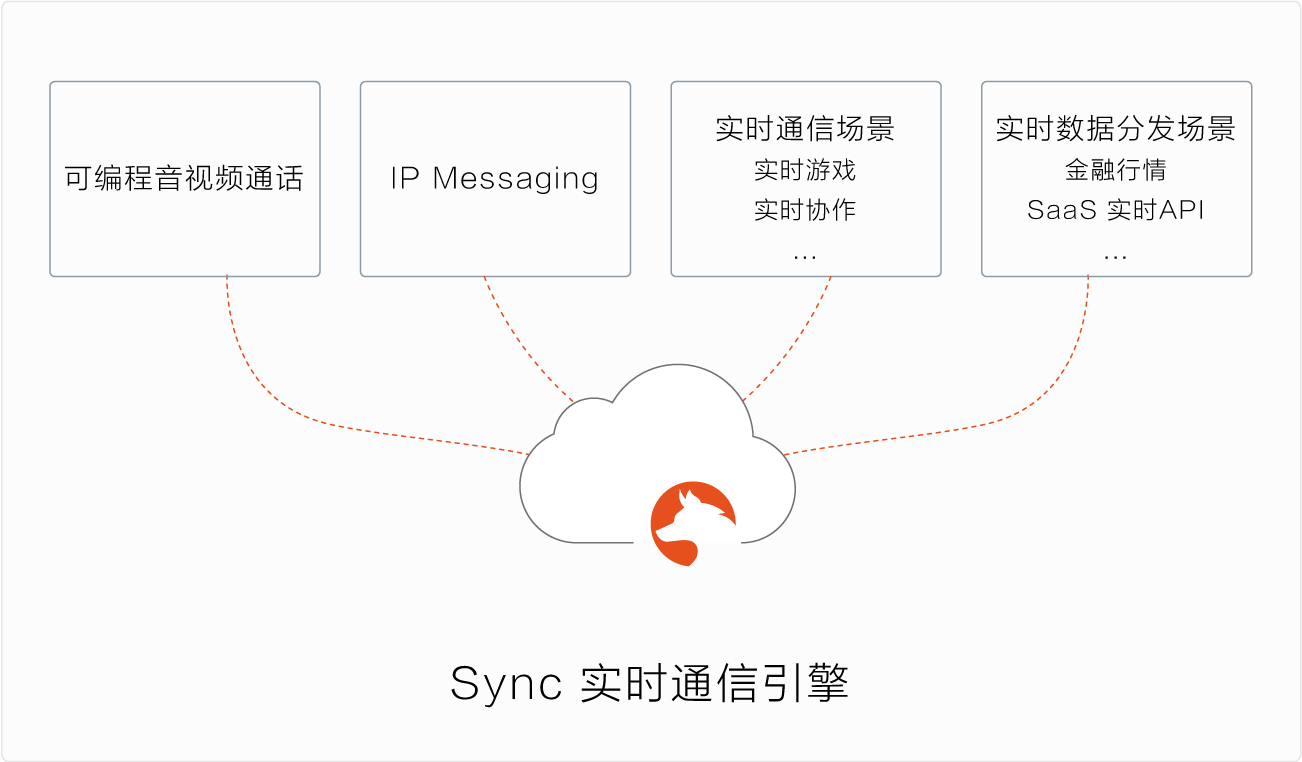
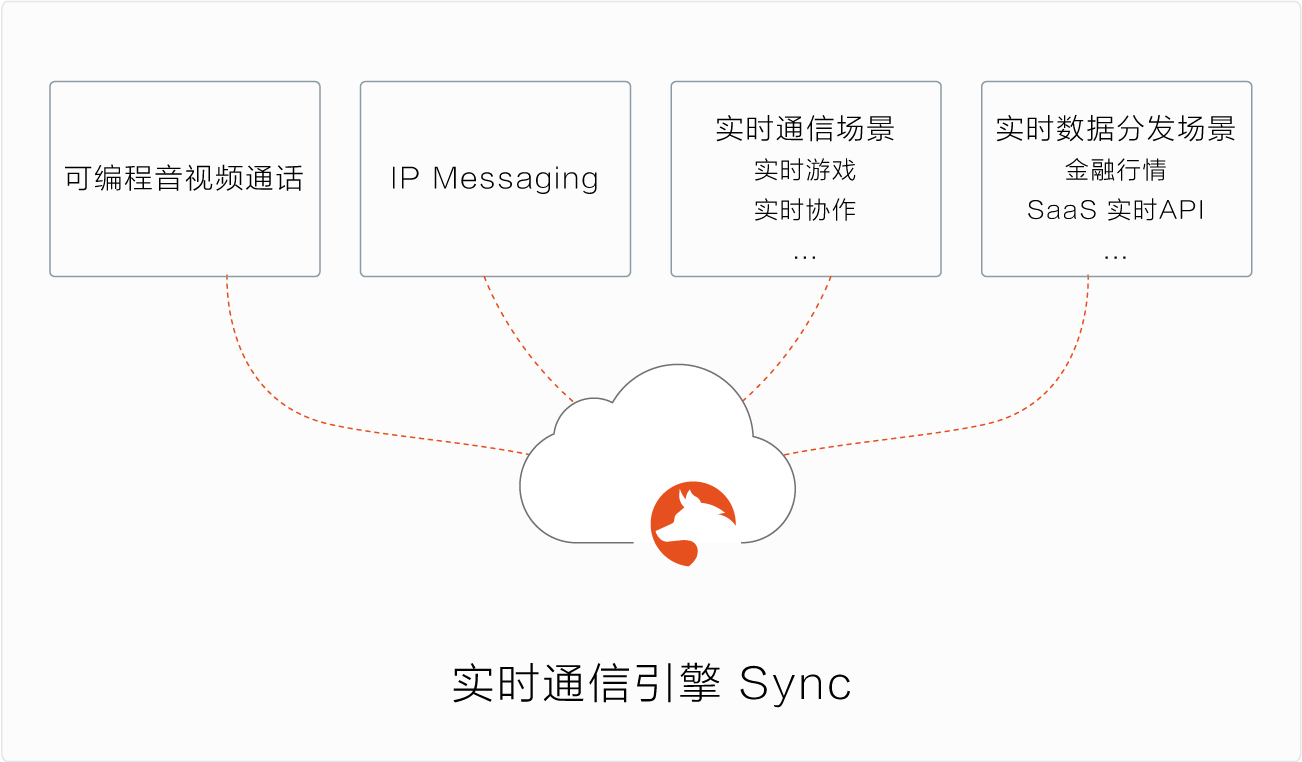
im

Changed region(s): [[0.3379, 0.8753, 0.6759, 0.9357]]

diff --git a/source/overview/index.md b/source/overview/index.md
@@ -7,18 +7,18 @@ title:  简介
 
 
 ## 野狗的产品
-目前野狗的产品有 [实时数据同步（Wilddog Sync）](/overview/sync.html) ， [实时视频通话（Wilddog Video）](/overview/video.html) 和 [身份认证（Wilddog Auth）](/overview/auth.html)。
+目前野狗的产品有 [实时数据同步（ Sync）](/overview/sync.html) ， [实时视频通话(Video）](/overview/video.html) 和 [身份认证（Auth）](/overview/auth.html)。
 
 
-实时数据同步（Wilddog Sync）是野狗的核心实时通信引擎。它帮助企业和开发者快速实现三大功能：基础实时通信、实时数据分发和实时数据持久化。
+实时数据同步（Sync）是野狗的核心实时通信引擎。它帮助企业和开发者快速实现三大功能：基础实时通信、实时数据分发和实时数据持久化。
 
 ![](/images/introduction.jpg)
 
-实时视频通话(Wilddog Video) 是基于 WebRTC 的实时视频通话服务，支持视频通话、多人视频会议、视频会议直播功能，为你的业务提供高清流畅的通话体验。
+实时视频通话 (Video) 是基于 WebRTC 的实时视频通话服务，支持视频通话、多人视频会议、视频会议直播功能，为你的业务提供高清流畅的通话体验。
 
 ![](/images/videointro.jpg)
 
-身份认证 (Wilddog Auth) 用于帮助企业和开发者将野狗快速接入应用的身份认证系统，一次身份认证打通野狗所有产品。还可以用于增强已有帐户体系和简化新应用中账号系统的开发。
+身份认证 (Auth) 用于帮助企业和开发者将野狗快速接入应用的身份认证系统，一次身份认证打通野狗所有产品。还可以用于增强已有帐户体系和简化新应用中账号系统的开发。
 
 ![](/images/wilddogauth.jpg)
 

diff --git a/source/overview/auth.md b/source/overview/auth.md
@@ -1,12 +1,12 @@
 
-title: 身份认证(Auth)
+title: 身份认证 Auth
 ---
 <h2 id='简介' class="article-heading top-heading">简介</h2>
 
 **Wilddog Auth** 用于帮助企业和开发者将野狗快速接入应用的身份认证系统，一次身份认证打通野狗所有产品。还可以用于增强已有帐户体系和简化新应用中账号系统的开发。
 
 
-## Wilddog Auth 能做什么
+## Auth 能做什么
 
 ### 一次身份认证，打通野狗全部产品
 与野狗实时数据同步（Sync）、通知（Notification）、实时音频通话（Voice）、实时视频通话（Video）、IM 等产品无缝集成。
@@ -17,7 +17,7 @@ title: 身份认证(Auth)
 ### 简化新应用的帐户系统开发
 极大地简化新应用的帐户系统开发。提供丰富的身份认证方式，开发者可以快速开发新应用，节省成本。
 
-## Wilddog Auth 带来的好处
+## Auth 带来的好处
 
 ### 避免从 0 开始
 让新应用避开从 0 开始的帐户系统开发，轻松搞定用户注册登录，用户信息存储。

diff --git a/source/overview/im.md b/source/overview/im.md
@@ -1,11 +1,11 @@
-title: 即时通讯 Wilddog IM
+title: 即时通讯 IM
 ---
 
 ## 简介
 
-**Wilddog IM **是基于野狗实时通信架构的即时通讯服务，能够为你的应用轻松接入安全可靠的实时通信功能。
+**IM是基于野狗实时通信架构的即时通讯服务**，能够为你的应用轻松接入安全可靠的实时通信功能。
 
-## Wilddog IM 能做什么
+## IM 能做什么
 
 ### 单聊
 
@@ -31,7 +31,7 @@ title: 即时通讯 Wilddog IM
 
 
 
-## Wilddog IM 带来的好处
+## IM 带来的好处
 
 ### 增强用户粘性
 
